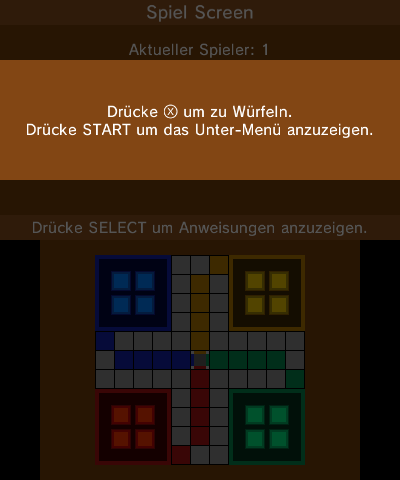
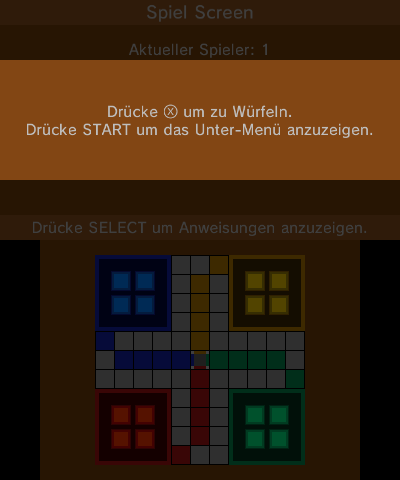
Ein paar kleine Veränderungen.
- Neue Textfarbe: 190, 190, 190, 255.

- Neue Würfel-Farbe.

- Aktualisiere Universal-Core.

- Aktualisiere Screenshots.

Changed region(s): [[0.21, 0.2188, 0.72, 0.2812], [0.72, 0.25, 0.93, 0.2812], [0.06, 0.25, 0.18, 0.2812]]

diff --git a/3ds/source/overlays/CreditsOverlay.cpp b/3ds/source/overlays/CreditsOverlay.cpp
@@ -44,20 +44,20 @@ static void Draw() {
 	GFX::DrawSprite(sprites_stackZ_idx, 2, 75);
 	Gui::DrawSprite(sprites, sprites_Ludo3DS_idx, 165, 55, 0.9, 0.9);
 
-	Gui::DrawStringCentered(0, 1, 0.6f, TEXT_COLOR, Lang::get("CREDITS"));
+	Gui::DrawStringCentered(0, 1, 0.7f, TEXT_COLOR, Lang::get("CREDITS"));
 	Gui::DrawStringCentered(0, 30, 0.6f, TEXT_COLOR, Lang::get("DEV_BY"), 390);
-	Gui::DrawStringCentered(0, 217, 0.6f, TEXT_COLOR, Lang::get("CURRENT_VERSION") + std::string(V_STRING), 390);
+	Gui::DrawStringCentered(0, 218, 0.6f, TEXT_COLOR, Lang::get("CURRENT_VERSION") + std::string(V_STRING), 390);
 
 	GFX::DrawBaseBottom();
 	Gui::Draw_Rect(0, 0, 320, 25, BAR_COLOR);
 	Gui::Draw_Rect(0, 215, 320, 25, BAR_COLOR);
 
-	Gui::DrawStringCentered(0, 28, 0.7f, TEXT_COLOR, "devkitPro", 310, 0);
-	Gui::DrawStringCentered(0, 48, 0.6f, TEXT_COLOR, Lang::get("DEVKITPRO"), 310, 0);
-	Gui::DrawStringCentered(0, 78, 0.7f, TEXT_COLOR, "SuperSaiyajinStackZ", 310, 0);
-	Gui::DrawStringCentered(0, 98, 0.6f, TEXT_COLOR, Lang::get("DEVELOPING_APP"), 310, 0);
-	Gui::DrawStringCentered(0, 128, 0.7f, TEXT_COLOR, "Universal-Team", 310, 0);
-	Gui::DrawStringCentered(0, 148, 0.6f, TEXT_COLOR, Lang::get("UNIVERSAL_CORE"), 310, 0);
+	Gui::DrawStringCentered(0, 28, 0.6f, TEXT_COLOR, "devkitPro", 310, 0);
+	Gui::DrawStringCentered(0, 48, 0.5f, TEXT_COLOR, Lang::get("DEVKITPRO"), 310, 0);
+	Gui::DrawStringCentered(0, 78, 0.6f, TEXT_COLOR, "SuperSaiyajinStackZ", 310, 0);
+	Gui::DrawStringCentered(0, 98, 0.5f, TEXT_COLOR, Lang::get("DEVELOPING_APP"), 310, 0);
+	Gui::DrawStringCentered(0, 128, 0.6f, TEXT_COLOR, "Universal-Team", 310, 0);
+	Gui::DrawStringCentered(0, 148, 0.5f, TEXT_COLOR, Lang::get("UNIVERSAL_CORE"), 310, 0);
 	C3D_FrameEnd(0);
 }
 

diff --git a/3ds/include/ui/gfx.hpp b/3ds/include/ui/gfx.hpp
@@ -33,7 +33,7 @@
 #include <citro2d.h>
 
 /* Definiere die Farben hier. */
-#define TEXT_COLOR C2D_Color32(255, 255, 255, 255) // Text Farbe.
+#define TEXT_COLOR C2D_Color32(190, 190, 190, 255) // Text Farbe.
 #define BAR_COLOR C2D_Color32(140, 80, 30, 255) // Balken Farbe.
 #define BG_COLOR C2D_Color32(118, 62, 9, 255) // Hintergrund Farbe.
 #define BOX_COLOR C2D_Color32(130, 70, 20, 255) // TextBox Farbe.

diff --git a/3ds/source/main.cpp b/3ds/source/main.cpp
@@ -86,10 +86,12 @@ int main() {
 		C2D_TargetClear(Bottom, NO_COLOR);
 
 		Gui::DrawScreen(true);
-		if (!exiting) Gui::ScreenLogic(hDown, hHeld, touch, true, true);
+		if (!exiting) Gui::ScreenLogic(hDown, hHeld, touch, false, true);
 		C3D_FrameEnd(0);
 
 		if (exiting) {
+			if (hDown & KEY_START) fullExit = true;
+
 			if (fadeAlpha < 255) {
 				fadeAlpha += 2;
 				if (fadeAlpha >= 255) {

diff --git a/common/include/core/figur.hpp b/common/include/core/figur.hpp
@@ -35,7 +35,7 @@ protected:
 	bool Used; // Falls Benutzt.
 	bool Done; // Ob schon am Ziel.
 public:
-	Figur(bool isUsed) : Position(0), Used(isUsed), Done(false) { }
+	Figur(bool isUsed) : Position(0), Used(isUsed), Done(false) { };
 
 	uint8_t GetPosition() const;
 	void SetPosition(uint8_t pos);

diff --git a/common/source/core/game.cpp b/common/source/core/game.cpp
@@ -206,7 +206,7 @@ void Game::SaveConversion() {
 }
 
 /*
-	Schreibe die Daten zu einer datei.
+	Schreibe die Daten zu einer Datei.
 */
 void Game::SaveToFile(bool update) {
 	if (update) this->SaveConversion(); // Konvertiere, falls update ist gewollt (true).

diff --git a/common/include/core/game.hpp b/common/include/core/game.hpp
@@ -68,7 +68,7 @@
 class Game {
 public:
 	Game(uint8_t playerAmount = 2, uint8_t figurAmount = 2);
-	~Game() { }
+	~Game() { };
 
 	/* Spiel-Utilities. */
 	void InitNewGame(uint8_t playerAmount = 2, uint8_t figurAmount = 2);
